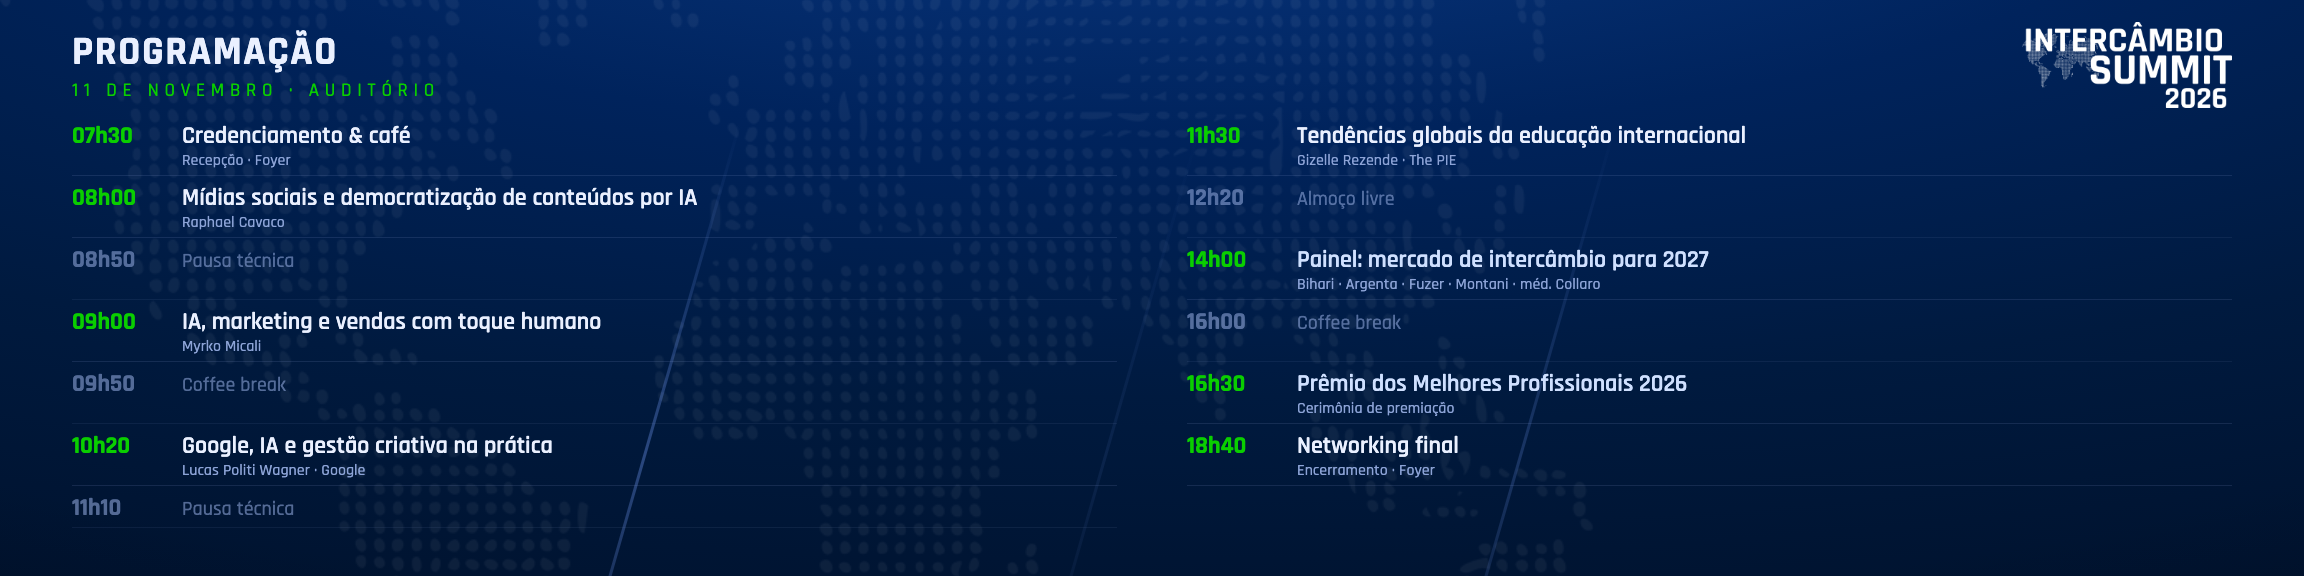
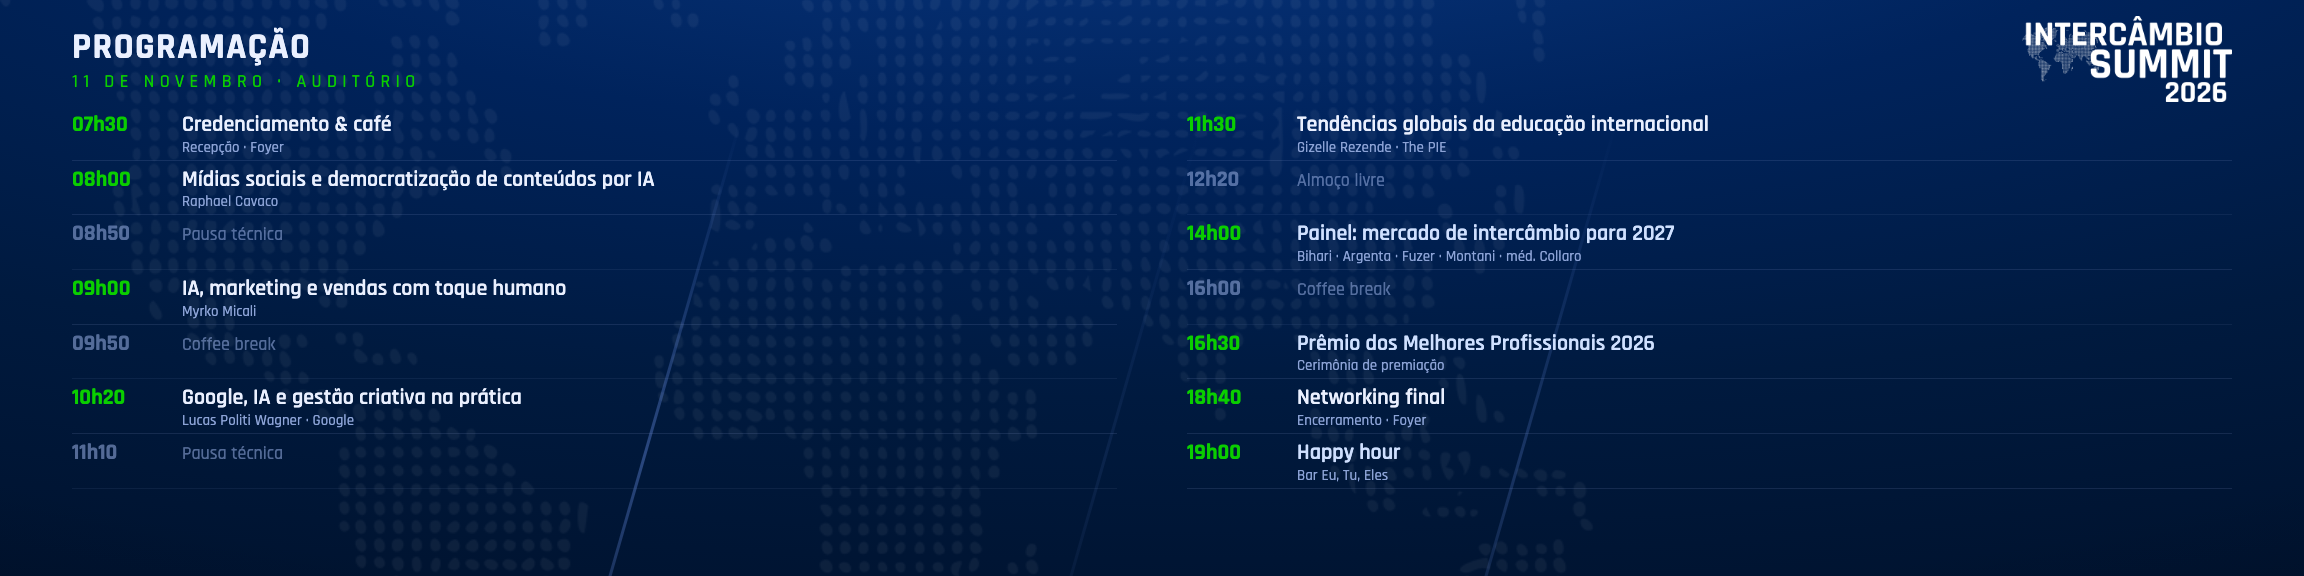
Cronograma: adiciona happy hour 19h00 (Bar Eu, Tu, Eles)
Inclui o happy hour de encerramento às 19h00 no bar Eu, Tu, Eles como
última linha; tipografia levemente compactada para caber 7 linhas por
coluna com folga da base.

diff --git a/criativos/telao/auditorio/auditorio.html b/criativos/telao/auditorio/auditorio.html
@@ -78,21 +78,21 @@ html,body{width:2304px;height:576px;overflow:hidden;background:var(--deep)}
 .ab .meta{font-weight:500;font-size:30px;color:var(--dim);letter-spacing:.06em}
 .ab .meta b{color:var(--paper);font-weight:700}
 /* cronograma */
-.cr{align-items:stretch;padding:22px 72px 66px}
-.cr .head{display:flex;align-items:center;justify-content:space-between;margin-bottom:9px}
-.cr .head .t{font-weight:700;font-size:40px;text-transform:uppercase;letter-spacing:.04em}
-.cr .head .t small{display:block;font-weight:500;font-size:19px;color:var(--green);letter-spacing:.3em;text-transform:none}
+.cr{align-items:stretch;padding:16px 72px 66px}
+.cr .head{display:flex;align-items:center;justify-content:space-between;margin-bottom:6px}
+.cr .head .t{font-weight:700;font-size:36px;text-transform:uppercase;letter-spacing:.04em}
+.cr .head .t small{display:block;font-weight:500;font-size:18px;color:var(--green);letter-spacing:.3em;text-transform:none}
 .cr .head img{width:210px}
 .cr .grid{display:grid;grid-template-columns:1fr 1fr;grid-template-rows:repeat(7,auto);
-  grid-auto-flow:column;gap:3px 70px;flex:1;align-content:start}
+  grid-auto-flow:column;gap:2px 70px;flex:1;align-content:start}
 .row{display:grid;grid-template-columns:92px 1fr;gap:18px;align-items:baseline;
-  padding:4px 0;border-bottom:1px solid rgba(140,163,214,.15)}
-.row .h{font-weight:700;font-size:24px;color:var(--green)}
-.row .ti{font-weight:600;font-size:24px;line-height:1.04}
-.row .wq{font-weight:500;font-size:16px;color:var(--dim);margin-top:1px}
+  padding:3px 0;border-bottom:1px solid rgba(140,163,214,.15)}
+.row .h{font-weight:700;font-size:22px;color:var(--green)}
+.row .ti{font-weight:600;font-size:22px;line-height:1.03}
+.row .wq{font-weight:500;font-size:15px;color:var(--dim);margin-top:1px}
 .row.pause{opacity:.6}
 .row.pause .h{color:var(--dim)}
-.row.pause .ti{font-weight:500;font-size:20px;color:var(--dim)}
+.row.pause .ti{font-weight:500;font-size:18px;color:var(--dim)}
 .row.hl .ti{color:#CFE0FF}
 /* painel principal (full) */
 .pn{align-items:center;justify-content:center;padding:36px 110px 120px}
@@ -187,7 +187,8 @@ const PROG=[
  {h:"14h00",ti:"Painel: mercado de intercâmbio para 2027",wq:"Bihari · Argenta · Fuzer · Montani · méd. Collaro",hl:1},
  {h:"16h00",ti:"Coffee break",pause:1},
  {h:"16h30",ti:"Prêmio dos Melhores Profissionais 2026",wq:"Cerimônia de premiação",hl:1},
- {h:"18h40",ti:"Networking final",wq:"Encerramento · Foyer"}
+ {h:"18h40",ti:"Networking final",wq:"Encerramento · Foyer"},
+ {h:"19h00",ti:"Happy hour",wq:"Bar Eu, Tu, Eles",hl:1}
 ];
 
 function logoPlate(){return `<div class="logoplate"><img src="${SUMMIT}"><div class="rule"></div><div class="sub">11 NOV 2026 · SÃO PAULO</div></div>`;}
